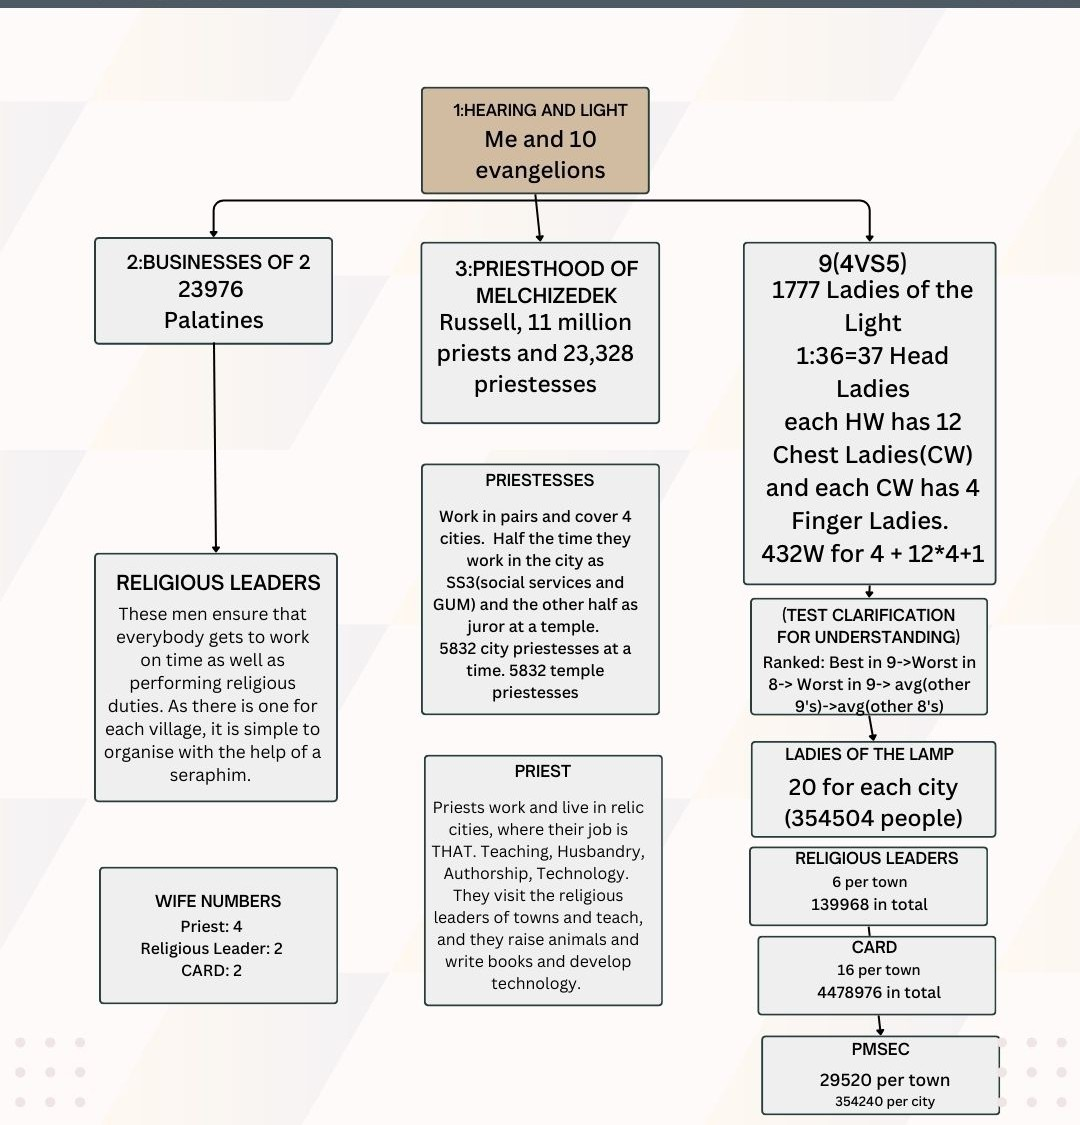
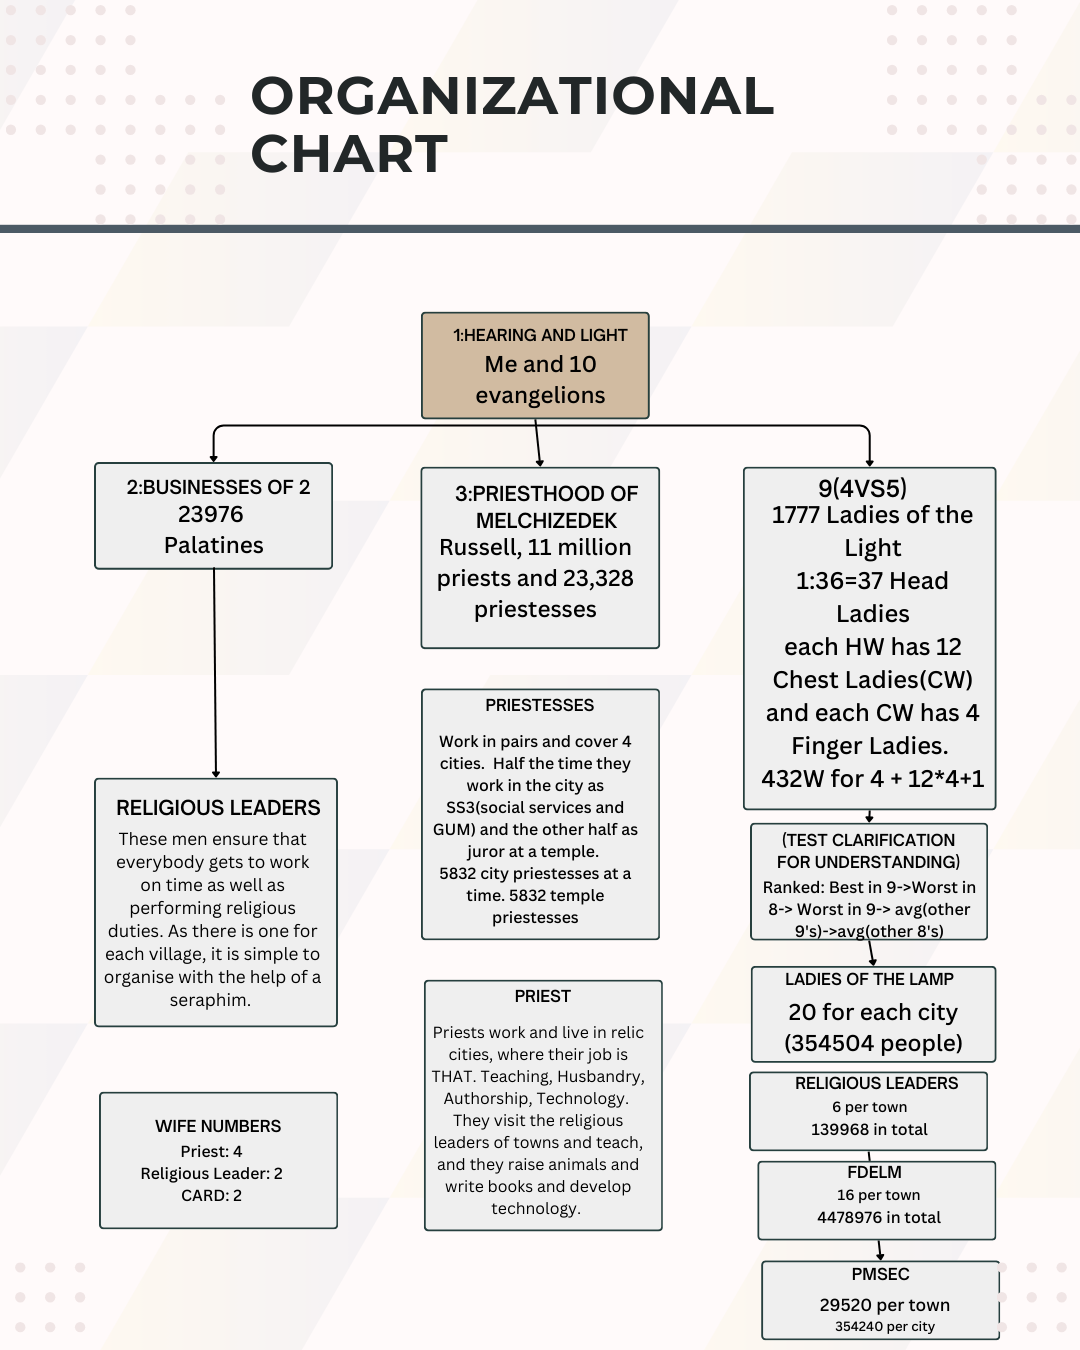
Starting the 10th day changes

Changed region(s): [[0.0, 0.0, 1.0, 0.9956], [0.6722, 0.3111, 0.7028, 0.3422]]

diff --git a/src/App.js b/src/App.js
@@ -1185,7 +1185,8 @@ const rightGrid = [
   const bottomThree = [
   { id: 0, title: "PMSEC", text: "PMSEC stands for produce, manufacturing, services, entertainment and construction. It is the typical category for a civilian of the world empire." },
   { id: 1, title: "Queer", text: "Anybody who falls within the category of queer will be taken to live in the THANA and be given an electronic collar made of LL. They will be given a range of tasks from innovation of products to running a business to entertainment. Civilians from WE SHG B can come to visit the EMPORIUM and browse their goods. Queers can kiss their partner, but they can not cause the ejaculation of their partner." },
-  { id: 2, title: "ACOLYTES", text: "ACOLYTES are those who failed the 89 exam and therefore have been put into a lifetime of servitude for the 9, the priesthood of Melchizedek or Hearing and Light. Acolytes can be male or female and have the right to marry and have children. They live in the EMPORIUM and wear electronic braces made from LL or ceramic on their arms and legs. Acolytes work as labourers and have the option of pitching a business idea to work half time on." }
+  { id: 2, title: "ACOLYTES", text: "ACOLYTES are those who failed the 89 exam and therefore have been put into a lifetime of servitude for the 9, the priesthood of Melchizedek or Hearing and Light. Acolytes can be male or female and have the right to marry and have children. They live in the EMPORIUM and wear electronic braces made from LL or ceramic on their arms and legs. Acolytes work as labourers and have the option of pitching a business idea to work half time on." },
+  { id: 3, title: "FDELM", text:"FDELM stands for fashion designer, evangellion, lady of the lamp and models. Each town has 16 people who are members of FDELM. This is the 4 that goes against the PMSEC 5. This is 4 fashion designers and 12 models." }
 ];
 
 const carouselItems = bottomThree.map(item => ({
@@ -1456,8 +1457,8 @@ const carouselItems = bottomThree.map(item => ({
             Each residential area has a temple, church or mosque (TCIHJB) and each town is walled with roads that run alongside on multiple levels with buildings. 
             On the levels are the service and entertainment buildings designed like elephant heads to be multileveled and support the roads and transport to and from. 
             There are 8 castles that serve as government buildings and Ladies of the Lamp residences. 
-            This is where the members of CARD will also go to work. 
-            The Towns are designed to be good for the Ladies of the Lamp as they don't have to travel for to shop and can remain safe in the castle while also being supported by the evangelions and CARD.
+            This is where the members of FDELM will also go to work. 
+            The Towns are designed to be good for the Ladies of the Lamp as they don't have to travel for to shop and can remain safe in the castle while also being supported by the evangelions and FDELM.
           </p>
         </div>
       </div>
@@ -1570,7 +1571,7 @@ const carouselItems = bottomThree.map(item => ({
 
       {/* Carousel at the bottom */}
       <div style={{ display: 'flex', flexDirection: 'column', alignItems: 'center', gap: '12px' }}>
-        <div style={{ display: 'flex', gap: '16px', overflow: 'hidden', justifyContent: 'center', width: '100%', maxWidth: '600px' }}>
+        <div style={{ display: 'flex', gap: '16px', overflow: 'hidden', justifyContent: 'center', width: '100%', maxWidth: '340rem' }}>
           {carouselItems.map((item, idx) => {
             const offset = (idx - carouselIndex + carouselItems.length) % carouselItems.length;
             let scale = 0.8, opacity = 0.5;
@@ -1632,7 +1633,7 @@ function WorldRule2Page() {
   { id: 2, title: "Priestess", text:"Priestess is the title for the women (virgins 16 and 20) who run certain duties within The Priesthood of Melchizedek. Namely the Social Services, the Jurors and 3. Social Services is the global social media, calling, messaging and entertainment service provider. Jurors are the maintainers of temples, readers, organizers of my audience and people's pilgrimage and advisers. 3 run GUM, giving, understanding and movement a government branch based in the Eshkol as the Disc, the Hromoda as the Card and the Burg as the Level. There are 23328 priestesses. Priestesses live in temples and nunneries and also have acolytes and evangelions to help them manage their tasks and their land. They split their time between running SS3 half of the year in cities and as a juror in temples the other half." },
   { id: 3, title: "Palatines", text:"Palatines are women (unmarried between the ages of 26 and 32) who run the business 2. There are 23976 Palatines." },
   { id: 4, title: "Ladies of the Light", text:"Ladies of the Light are the heads of state of a christmas, arrow, or a tooth. They are who the Ladies of the Lamp are guided by and they meet with their respective Ladies of the Light in the department of 4 who in turn meet with the Evangelions in the department of 9. There are 1777 Ladies of the Light. Ladies of the Light, Ladies of the Lamp, priestesses, priests and Palatines enjoy the luxury of being able to drive ." },
-  { id: 5, title: "Religious Leaders and CARD", text:"There are 6 religious leaders for each town. 1 for each religion of (TCIHJB). There are 16 members of CARD who assist the Ladies of the Lamp with organizing the town." },
+  { id: 5, title: "Religious Leaders and FDELM", text:"There are 6 religious leaders for each town. 1 for each religion of (TCIHJB), they each are in charge one of the 6 boroughs of a town. There are 16 members of FDELM for each Town 4 are fashion designers and 12 are models." },
   { id: 5, title: "Priest", text:"Priests live in relic cities which are the cities of this time that have been scaled down for their number with only the most important and sacred buildings kept. Usually this would be the city center. The outside area is converted to farmland for animals and manufacturing. The number of priests are Catholic: 570595, Eastern Orthodox: 1.1 million, Anglican 76001, Lutherian: 93002, Islam: 2 million, Hinduism: 6 million, Buddhism: 1.5 million, Judaism: 50000, Sikhism: 100000, this totals to 11489598."}
 ];
   const stats6 = Array.from({ length: 6 }).map((_, i) => ({
@@ -1678,12 +1679,12 @@ function WorldRule2Page() {
 ]; 
 
 const metric6 = [
-  {id: 1, title: "Governance", text: "The " },
-  {id: 2, title: "Infrastructure", text: "The " },
-  {id: 3, title: "Culture", text: "The " },
-  {id: 4, title: "Science", text: "The " },
-  {id: 5, title: "Labour", text: "The " },
-  {id: 6, title: "Population", text: "The " }
+  {id: 1, title: "Governance", text: "Governance is localised while maintaining a strict heirachy. It is a matriarchal society with only women in direct leadership all of whom have taken a pledge to only give themselves to the Father or the Brother." },
+  {id: 2, title: "Infrastructure", text: "The infrastructure is designed so that each town forms a part of a produce chain as a Cat. Each Cat then is a part of a chain called the Pig (Production Integrated Globe)." },
+  {id: 3, title: "Culture", text: "The culture is religious. Entertainment is the work of the ladies of the lamp who oversee sports teams for each town and who select representative musicians for each town. As the culture is designed to be inclusive all people are required to create a song that they can perform every 5 months." },
+  {id: 4, title: "Science", text: "Education is completed over a 12 year programme from the age of 5 to 17. Scientific research is done by HAL, POM, and 2. Major scientific projects include Pokemon creation and other novelties for everybodies enjoyment." },
+  {id: 5, title: "Labour", text: "The work pattern is 4 hour and 5 hour shifts with a 3 hour break in between to enjoy the town. Major labour projects include, spaceships, sea villages, sky castles, orbital platforms and trident terraforming spears." },
+  {id: 6, title: "Population", text: "The population is controlled everywhere. When the population increases too high a new CAT will be constructed or more will be taken to the 17%. " }
 
 ];
 
